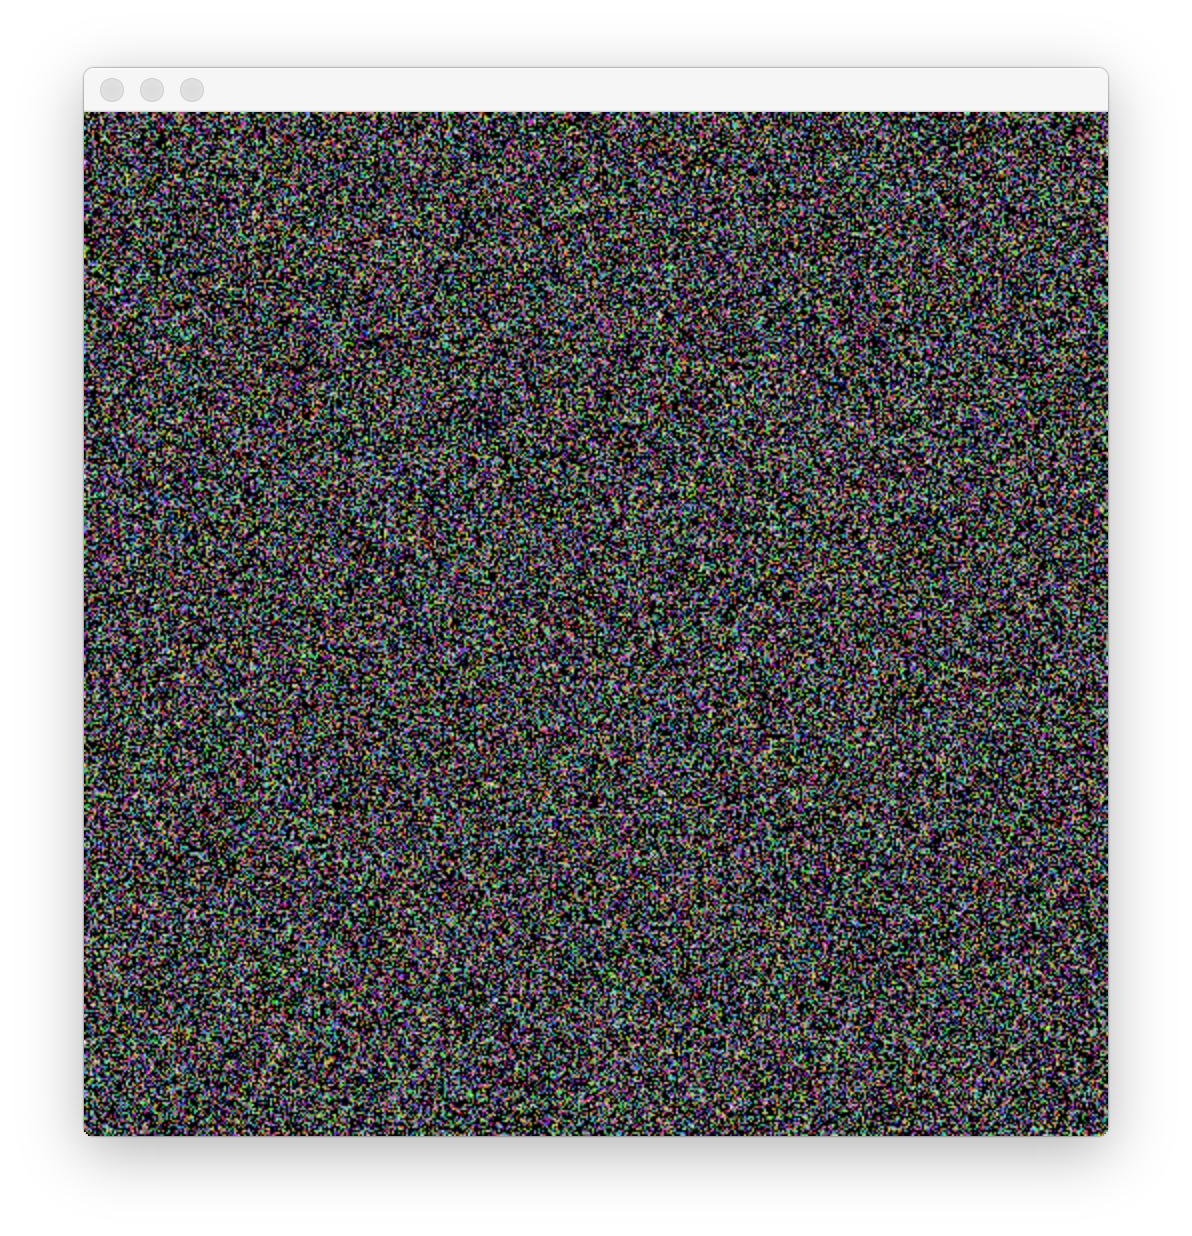
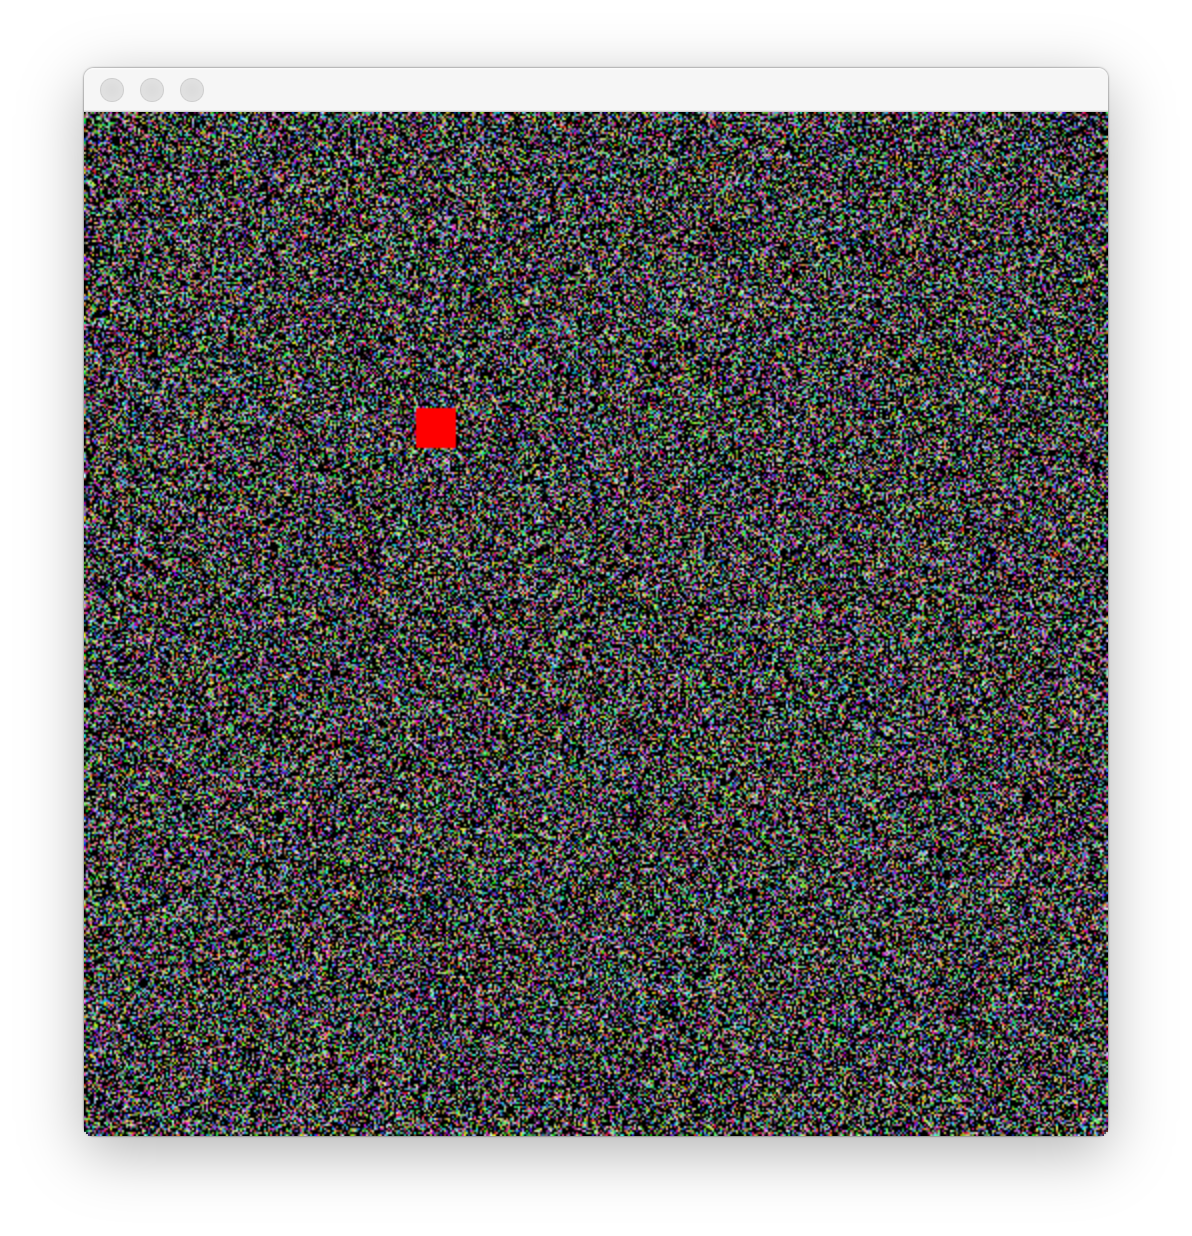
Add red square following cursor on screen

diff --git a/README.md b/README.md
@@ -36,14 +36,15 @@ func onKey(w *glfw.Window, key glfw.Key, scancode int, action glfw.Action, mods 
 	}
 }
 
-var x, y float64
+var xCursor, yCursor float64
 
 func onCursorMove(xPos float64, yPos float64) {
-	x, y = xPos, yPos
-	fmt.Println("CURSOR: ", x, y)
+	xCursor, yCursor = xPos, yPos
+	fmt.Println("CURSOR: ", xCursor, yCursor)
 }
 
 func render() *image.RGBA {
+	xCur, yCur := int(xCursor), int(yCursor)
 
 	rgba := image.NewRGBA(image.Rect(0, 0, width, height))
 
@@ -55,9 +56,16 @@ func render() *image.RGBA {
 		r := uint8(rand.Intn(255))
 		g := uint8(rand.Intn(255))
 		b := uint8(rand.Intn(255))
-		//
+
 		rgba.Set(x, y, color.RGBA{r, g, b, 255})
 	}
+
+	for x := 0; x < 20; x++ {
+		for y := 0; y < 20; y++ {
+			rgba.Set(xCur+x, height-yCur+y, color.RGBA{255, 0, 0, 255})
+		}
+	}
+
 	return rgba
 
 }
